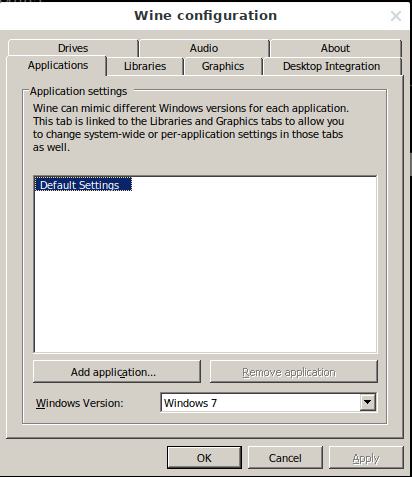
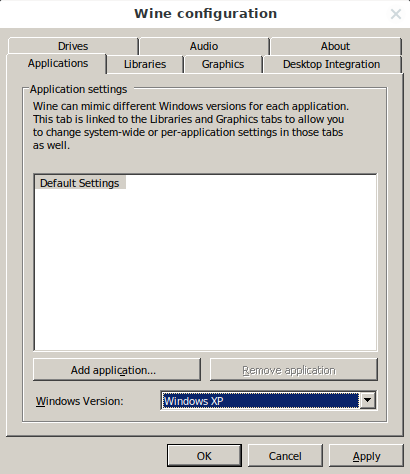
update jk on linux

Changed region(s): [[0.0, 0.0, 1.0, 1.0]]

diff --git a/source/jediknight/jk_on_linux.md b/source/jediknight/jk_on_linux.md
@@ -4,6 +4,10 @@ title: "How to get Jedi Knight: Dark Forces II running under Linux/Wine"
 
 [TOC]
 
+## Steam Note
+
+If you have Steam on Linux, you can install and use JK.  After you run the install in Steam, you need to right click the game, click Properties, click Compatibility on the left, check the "Force the use of a specific Steam Play compatibility tool" and then select "Proton 5.0-10". When I did that, the single player worked, same as running it under vanilla wine. But the multiplayer is broken completely.
+
 ## Prerequisites
 
 * have a working Linux install; I'm using Ubuntu 20.04 (but this also worked
@@ -24,15 +28,49 @@ In my case, I ripped ISOs from the two JK CDs and I'm using those.  The filename
 
 ## Install Wine
 
+Note: the default `wine` package you get if you install `wine` is the 64-bit package.  For JK, it's easier to get things running if you just install `wine32`.  This works fine even on a 64-bit system.
+
 In a terminal, run:
 
 ```
-    sudo apt install wine64
+    sudo apt install wine32
 ```
 
-Once it's finished, you can run winecfg to test the application.  Feel free to poke around in the options and then close it when you're done.
+Run `winecfg` and on the default screen (Applications), at the bottom, next wo Windows Version, select Windows XP.  This makes the installer run better.  With the default (Windows 7) selected, the windows appear huge and it doesn't quite work right.  Click Apply then OK.
 
 ![](winecfg.png)
+
+## Install winetricks (optional)
+
+This is optional.  If you want any hope of getting multiplayer working, you need this.  If you just want to play single-player, you can skip it.
+
+First you need to install some prerequisites:
+
+```
+    sudo apt install cabextract
+```
+
+`winetricks` is an open source program that allows easy install of components (such as vc++ redistributables, directx, etc.).  Follow the instructions here for installation:
+
+[https://github.com/Winetricks/winetricks](https://github.com/Winetricks/winetricks)
+
+Please note that the winetricks package in Ubuntu 20.04 is out of date severely enough that it simply does not work.  Install from the github repository.
+
+### Install directplay
+
+Run `winetricks`.  You will be asked what you want to do.  First select "Select the default wineprefix" and then click OK.
+
+![](wt_default_prefix.png)
+
+On the next screen, choose to "Install a Windows DLL or component" and click OK.
+
+![](wt_component.png)
+
+Scroll down and fine `directplay`; select it and click OK.
+
+![](wt_directplay.png)
+
+When it's done, it will drop you back to the main screen.  Just click the X to close the program.
 
 ## Mount the first disk ISO.
 
@@ -118,7 +156,12 @@ Everything works for me.  Important things to set up once the game is launched:
 
 ## Launching the game
 
-After you exit the game, you can launch it again by finding the Jedi Knight entry in your "start" menu.
+After you exit the game, you can launch it again by finding the Jedi Knight entry in your "start" menu.  If you can't find it in your start menu, by default everything is installed in `.wine/drive_c`, so you can launch it like this:
+
+```
+    cd .wine/drive_c/Program\ Files/LucasArts/Jedi\ Knight/
+    wine jk.exe
+```
 
 ## What about the CD music?
 
@@ -136,3 +179,8 @@ Unmount the first ISO, and then mount the second one using a similar command.
 ```
 
 Then alt-tab back into the game.
+
+## Multiplayer?
+
+If you installed `directplay` via `winetricks` you should be able to load the multiplayer screen and host a game.  You can walk around in the multiplayer levels by yourself.  To get other people to join or to join someone else's game, you will probably need to configure/open some ports on your router.  I haven't gotten to that point yet.
+
